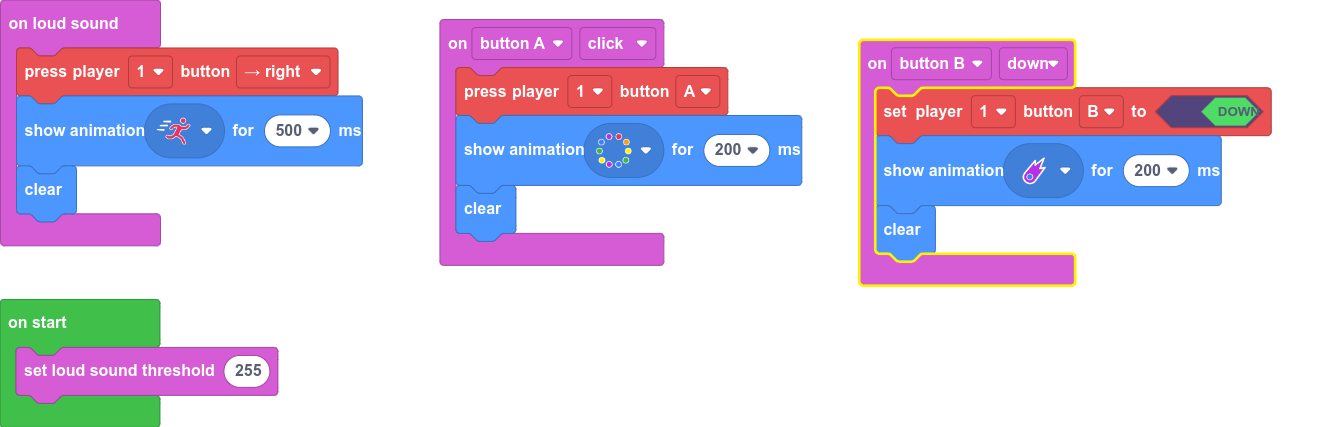
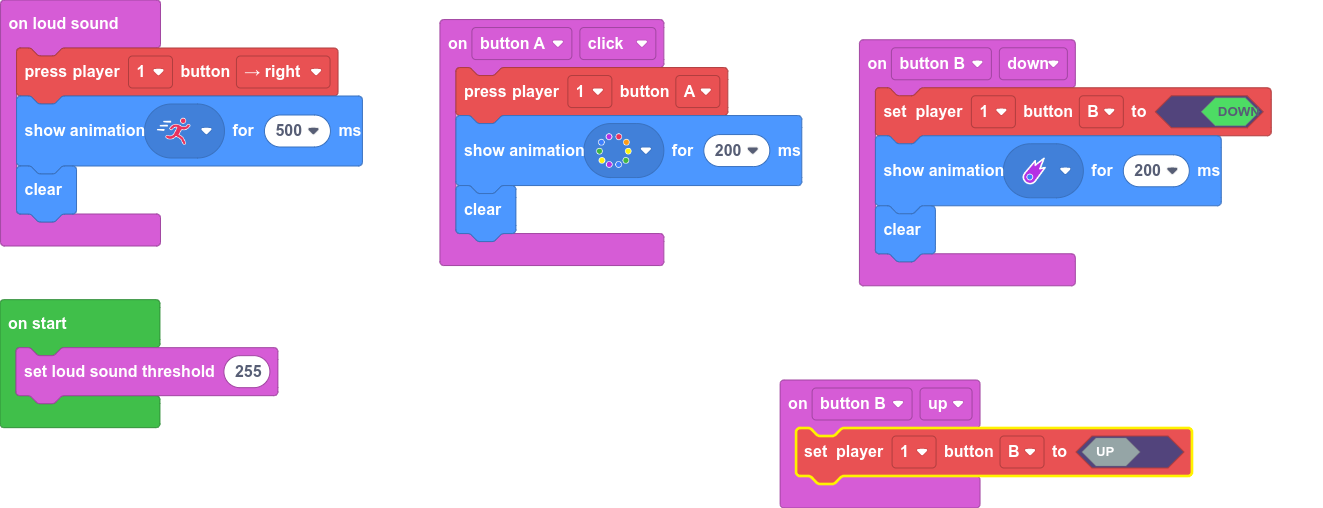
Update main.blocks, main.ts

diff --git a/main.ts b/main.ts
@@ -13,4 +13,7 @@ input.buttonA.onEvent(ButtonEvent.Click, function () {
     light.showAnimation(light.rainbowAnimation, 200)
     light.clear()
 })
+input.buttonB.onEvent(ButtonEvent.Up, function () {
+    makerController.player1.setButton(ArcadeButton.B, false)
+})
 input.setLoudSoundThreshold(255)
